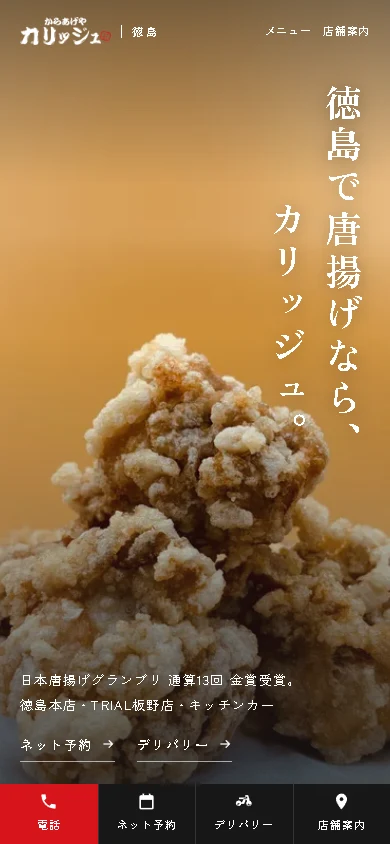
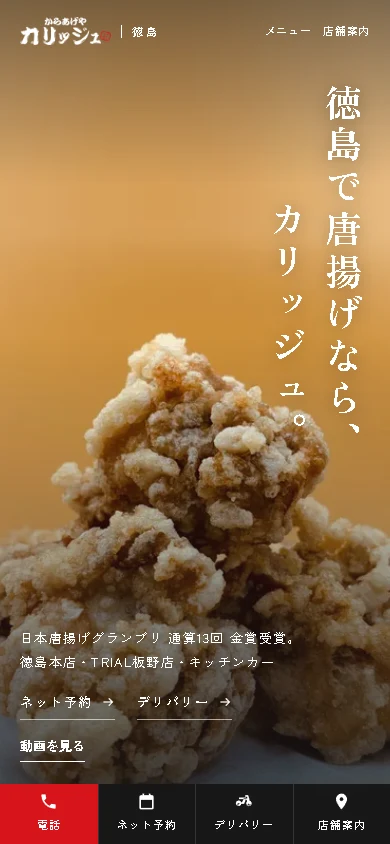
Show intro video across desktop and allow reliable replay

diff --git a/hero-review-20261009/index.html b/hero-review-20261009/index.html
@@ -1,1 +1,1 @@
-<!doctype html><html lang="ja"><head><meta charset="utf-8"><meta name="viewport" content="width=device-width,initial-scale=1"><meta name="robots" content="noindex,nofollow"><title>カリッジュ PCトップ写真の確認案</title><style>*{box-sizing:border-box}body{margin:0;background:#f6f5f2;color:#241a0e;font-family:system-ui,sans-serif;line-height:1.8}main{max-width:1060px;margin:auto;padding:28px 18px 60px}h1{font-size:24px;line-height:1.5;margin:12px 0}h2{font-size:17px;margin:30px 0 10px}p{font-size:14px;margin:10px 0}img{display:block;width:100%;height:auto}figure{margin:0}a{color:inherit}.button{display:inline-block;background:#241a0e;color:white;padding:10px 18px;text-decoration:none;margin:12px 0}.label{font-size:12px;color:#665b4a;border-bottom:1px solid #ccc;padding-bottom:12px}.phone{max-width:390px;margin:0 auto}.note{color:#665b4a;font-size:12px}</style></head><body><main><p class="label">2026年10月9日 作成 ／ 確認案・本番未反映</p><h1>唐揚げを、画面いっぱいに。</h1><p>PCで動画が終わった後の写真を差し替え、縦書きのコピーとロゴを濃い墨色にしました。</p><h2>低いノートPCの画面（1280 × 600）</h2><figure><a href="hero-1280x600.webp"><img src="hero-1280x600.webp" width="1280" height="600" alt="横長の唐揚げ写真を全面に広げ、左に墨色の縦書きコピーを配置したノートPC表示案"></a></figure><p class="note">画像をタップすると大きく開けます。</p><h2>高さのあるPCの画面（1440 × 900）</h2><figure><a href="hero-1440x900.webp"><img src="hero-1440x900.webp" width="1440" height="900" alt="高さのあるPC画面での写真と縦書きコピーの配置" loading="lazy"></a></figure><h2>スマホの表示</h2><p>スマホの写真は従来のまま。低い画面では必要に応じて縦にスクロールできます。</p><figure class="phone"><img src="hero-390x844.webp" width="390" height="844" alt="従来の写真と白い縦書きコピーを使ったスマホ表示" loading="lazy"></figure><a class="button" href="site/">実際に動く確認サイトを開く</a><p>PCの初回動画も残しています。写真の場面は動画の後に表示されます。</p><p class="note">幅320〜2560px、低いPC・スマホ縦横・拡大表示相当の寸法を確認。ChromeとSafari系でトップ・メニュー・店舗案内の60通りを点検済み。現時点では本番サイトの表示は変更していません。</p></main></body></html>
+<!doctype html><html lang="ja"><head><meta charset="utf-8"><meta name="viewport" content="width=device-width,initial-scale=1"><meta name="robots" content="noindex,nofollow"><title>カリッジュ PCトップ写真の確認案</title><style>*{box-sizing:border-box}body{margin:0;background:#f6f5f2;color:#241a0e;font-family:system-ui,sans-serif;line-height:1.8}main{max-width:1060px;margin:auto;padding:28px 18px 60px}h1{font-size:24px;line-height:1.5;margin:12px 0}h2{font-size:17px;margin:30px 0 10px}p{font-size:14px;margin:10px 0}img{display:block;width:100%;height:auto}figure{margin:0}a{color:inherit}.button{display:inline-block;background:#241a0e;color:white;padding:10px 18px;text-decoration:none;margin:12px 0}.label{font-size:12px;color:#665b4a;border-bottom:1px solid #ccc;padding-bottom:12px}.phone{max-width:390px;margin:0 auto}.note{color:#665b4a;font-size:12px}</style></head><body><main><p class="label">2026年10月9日 作成 ／ 確認案・本番未反映</p><h1>唐揚げを、画面いっぱいに。</h1><p>PCで動画が終わった後の写真を差し替え、縦書きのコピーとロゴを濃い墨色にしました。</p><h2>最初の動画もPC画面全体で再生</h2><figure><img src="intro-full-pc.webp" width="1280" height="600" alt="揚げている唐揚げをPC全面で見せる動画の一場面"></figure><h2>低いノートPCの画面（1280 × 600）</h2><figure><a href="hero-1280x600.webp"><img src="hero-1280x600.webp" width="1280" height="600" alt="横長の唐揚げ写真を全面に広げ、左に墨色の縦書きコピーを配置したノートPC表示案"></a></figure><p class="note">画像をタップすると大きく開けます。</p><h2>高さのあるPCの画面（1440 × 900）</h2><figure><a href="hero-1440x900.webp"><img src="hero-1440x900.webp" width="1440" height="900" alt="高さのあるPC画面での写真と縦書きコピーの配置" loading="lazy"></a></figure><h2>スマホの表示</h2><p>スマホの写真は従来のまま。低い画面では必要に応じて縦にスクロールできます。</p><figure class="phone"><img src="hero-390x844.webp" width="390" height="844" alt="従来の写真と白い縦書きコピーを使ったスマホ表示" loading="lazy"></figure><a class="button" href="site/">実際に動く確認サイトを開く</a><p>PCの動画は画面全体で表示し、ページを開き直した場合も再生します。動きを減らす設定や自動再生の制限で写真が出た場合は「動画を見る」から手動再生できます。</p><p class="note">幅320〜2560px、低いPC・スマホ縦横・拡大表示相当の寸法を確認。ChromeとSafari系でトップ・メニュー・店舗案内の60通りを点検済み。現時点では本番サイトの表示は変更していません。</p></main></body></html>

diff --git a/hero-review-20261009/site/index.html b/hero-review-20261009/site/index.html
@@ -20,7 +20,7 @@
 <link rel="preconnect" href="https://fonts.googleapis.com">
 <link rel="preconnect" href="https://fonts.gstatic.com" crossorigin>
 <link rel="stylesheet" href="https://fonts.googleapis.com/css2?family=Cormorant+Garamond:ital,wght@0,500;0,600;0,700;1,500&amp;family=Zen+Kaku+Gothic+New:wght@400;500;700&amp;family=Zen+Old+Mincho:wght@500;700;900&amp;display=swap">
-<link rel="stylesheet" href="assets/css/site.css?v=87977d95">
+<link rel="stylesheet" href="assets/css/site.css?v=f902f454">
 <script>document.documentElement.classList.add('js');if(/[?&]motion=force/.test(location.search)||(!matchMedia('(prefers-reduced-motion: reduce)').matches&&!/[?&]motion=reduce/.test(location.search)))document.documentElement.classList.add('motion');</script>
 <script type="application/ld+json">{"@context":"https://schema.org","@graph":[{"@type":"Restaurant","@id":"https://kariju-tokushima.com/shops.html#honten","name":"からあげやカリッジュ　徳島本店","url":"https://kariju-tokushima.com/shops.html#honten","image":"https://kariju-tokushima.com/assets/img/store-honten-20261002-full.jpg","telephone":"+81-80-4037-3163","address":{"@type":"PostalAddress","postalCode":"770-0005","addressRegion":"徳島県","addressLocality":"徳島市","streetAddress":"南矢三町3丁目4-39 久米ビル","addressCountry":"JP"},"openingHoursSpecification":[{"@type":"OpeningHoursSpecification","dayOfWeek":["Monday","Tuesday","Wednesday","Thursday","Friday"],"opens":"11:00:00","closes":"14:00:00"},{"@type":"OpeningHoursSpecification","dayOfWeek":["Monday","Tuesday","Wednesday","Thursday","Friday"],"opens":"16:00:00","closes":"20:00:00"},{"@type":"OpeningHoursSpecification","dayOfWeek":["Saturday","Sunday"],"opens":"11:00:00","closes":"20:00:00"}],"servesCuisine":"唐揚げ","priceRange":"¥500〜¥3,000","menu":"https://kariju-tokushima.com/menu.html","hasMap":"https://www.google.com/maps/search/?api=1&query=%E3%81%8B%E3%82%89%E3%81%82%E3%81%92%E3%82%84%E3%82%AB%E3%83%AA%E3%83%83%E3%82%B8%E3%83%A5%20%E5%BE%B3%E5%B3%B6%E6%9C%AC%E5%BA%97%20%E5%BE%B3%E5%B3%B6%E7%9C%8C%E5%BE%B3%E5%B3%B6%E5%B8%82%E5%8D%97%E7%9F%A2%E4%B8%89%E7%94%BA3%E4%B8%81%E7%9B%AE4-39%20%E4%B9%85%E7%B1%B3%E3%83%93%E3%83%AB","paymentAccepted":"現金, PayPay","acceptsReservations":true},{"@type":"Restaurant","@id":"https://kariju-tokushima.com/shops.html#itano","name":"からあげやカリッジュ　TRIAL板野店","url":"https://kariju-tokushima.com/shops.html#itano","image":"https://kariju-tokushima.com/assets/img/store-itano-20261002-full.jpg","telephone":"+81-80-5132-7509","address":{"@type":"PostalAddress","postalCode":"779-0102","addressRegion":"徳島県","addressLocality":"板野郡板野町","streetAddress":"川端島中須11-2","addressCountry":"JP"},"openingHoursSpecification":[{"@type":"OpeningHoursSpecification","dayOfWeek":["Monday","Tuesday","Wednesday","Thursday","Friday"],"opens":"11:00:00","closes":"14:00:00"},{"@type":"OpeningHoursSpecification","dayOfWeek":["Monday","Tuesday","Wednesday","Thursday","Friday"],"opens":"15:00:00","closes":"20:00:00"},{"@type":"OpeningHoursSpecification","dayOfWeek":["Saturday","Sunday"],"opens":"11:00:00","closes":"20:00:00"}],"servesCuisine":"唐揚げ","priceRange":"¥500〜¥3,000","menu":"https://kariju-tokushima.com/menu.html","hasMap":"https://www.google.com/maps/search/?api=1&query=%E3%81%8B%E3%82%89%E3%81%82%E3%81%92%E3%82%84%E3%82%AB%E3%83%AA%E3%83%83%E3%82%B8%E3%83%A5%20TRIAL%E6%9D%BF%E9%87%8E%E5%BA%97%20%E5%BE%B3%E5%B3%B6%E7%9C%8C%E6%9D%BF%E9%87%8E%E9%83%A1%E6%9D%BF%E9%87%8E%E7%94%BA%E5%B7%9D%E7%AB%AF%E5%B3%B6%E4%B8%AD%E9%A0%8811-2","paymentAccepted":"現金, PayPay","acceptsReservations":true}]}</script>
 </head>
@@ -48,6 +48,7 @@
     <div class="hero__foot">
       <p class="hero__lead">日本唐揚げグランプリ 通算13回 金賞受賞。<br>徳島本店・TRIAL板野店・キッチンカー</p>
       <p class="hero__links"><a href="#sheet-reserve" data-sheet="sheet-reserve">ネット予約<svg viewBox="0 0 24 24" aria-hidden="true"><path d="M4 11h13.2l-4.6-4.6L14 5l7 7-7 7-1.4-1.4 4.6-4.6H4z" fill="currentColor"/></svg></a><a href="#sheet-delivery" data-sheet="sheet-delivery">デリバリー<svg viewBox="0 0 24 24" aria-hidden="true"><path d="M4 11h13.2l-4.6-4.6L14 5l7 7-7 7-1.4-1.4 4.6-4.6H4z" fill="currentColor"/></svg></a></p>
+      <button class="hero__replay" type="button" data-intro-play>動画を見る</button>
     </div>
   </div>
   <p class="hero__scroll" aria-hidden="true">SCROLL</p>
@@ -312,6 +313,6 @@
     <a class="sheet__close" href="#_" data-close>閉じる</a>
   </div>
 </div>
-<script src="assets/js/site.js?v=9bcefda6" defer></script>
+<script src="assets/js/site.js?v=03d0c375" defer></script>
 </body>
 </html>

diff --git a/hero-review-20261009/site/assets/js/site.js b/hero-review-20261009/site/assets/js/site.js
@@ -8,42 +8,61 @@
 (() => {
   const root = document.documentElement;
   const motion = root.classList.contains('motion');
-  const force = /[?&]motion=force/.test(location.search);
 
   // ---------- 1) 最初の画面 ----------
   const hero = document.querySelector('.hero');
   if (hero) {
     const video = hero.querySelector('.hero__video');
+    const replay = hero.querySelector('[data-intro-play]');
     let done = false;
+    let timers = [];
+    const clearTimers = () => { timers.forEach(clearTimeout); timers = []; };
     const stamp = () => {
       if (done) return;
       done = true;
+      clearTimers();
+      hero.classList.remove('intro-playing');
       hero.classList.add('is-lifted');
-      setTimeout(() => hero.classList.add('is-stamped'), 380);
-      try { sessionStorage.setItem('kariju-intro', '1'); } catch (e) { /* 使えなくても困らない */ }
+      if (video) video.pause();
+      timers.push(setTimeout(() => hero.classList.add('is-stamped'), motion ? 380 : 0));
     };
-    let seen = false;
-    try { seen = sessionStorage.getItem('kariju-intro') === '1'; } catch (e) { /* 何もしない */ }
-    if (!motion || !video || (seen && !force)) {
-      hero.classList.add('is-lifted', 'is-stamped');
-      if (video) video.removeAttribute('src');
-    } else {
-      // 広い画面は元の大きさ（720×1280）の版、スマホは軽い版
-      video.src = matchMedia('(min-width: 900px)').matches ? video.dataset.srcHd : video.dataset.src;
-      // 網が手前まで上がりきる少し前（残り0.35秒）で切り替える
+    const playIntro = () => {
+      if (!video) return;
+      clearTimers();
+      done = false;
+      hero.classList.remove('is-lifted', 'is-stamped');
+      hero.classList.add('intro-playing');
+      const src = matchMedia('(min-width: 900px)').matches ? video.dataset.srcHd : video.dataset.src;
+      if (video.error || video.getAttribute('src') !== src) video.src = src;
+      else video.currentTime = 0;
+      video.muted = true;
+      let started = false;
+      const onPlaying = () => { started = true; };
+      video.addEventListener('playing', onPlaying, { once: true });
+      const p = video.play();
+      if (p && p.catch) p.catch(stamp);
+      timers.push(setTimeout(() => { video.removeEventListener('playing', onPlaying); if (!started) stamp(); }, 4000));
+      timers.push(setTimeout(stamp, 10000));
+    };
+    if (video) {
       video.addEventListener('timeupdate', () => {
+        // 縦素材をPCで横いっぱいに見せる際、網が上がる動きに合わせて唐揚げを追う。
+        if (video.duration && matchMedia('(min-width: 900px)').matches) {
+          video.style.objectPosition = `50% ${32 - 22 * Math.min(1, video.currentTime / video.duration)}%`;
+        } else video.style.objectPosition = '';
         if (video.duration && video.currentTime >= video.duration - 0.35) stamp();
       });
       video.addEventListener('ended', stamp);
       video.addEventListener('error', stamp);
-      hero.addEventListener('click', (e) => { if (!e.target.closest('a')) stamp(); });
-      const p = video.play();
-      if (p && p.catch) p.catch(stamp);
-      // 回線が遅いときは待たせすぎない：4秒たっても動き出さなければ写真を出す（待つ間は最初の1コマを見せている）
-      let started = false;
-      video.addEventListener('playing', () => { started = true; }, { once: true });
-      setTimeout(() => { if (!started) stamp(); }, 4000);
-      setTimeout(stamp, 10000);
+    }
+    hero.addEventListener('click', (e) => { if (!e.target.closest('a, button')) stamp(); });
+    if (replay) replay.addEventListener('click', playIntro);
+    if (!motion || !video) {
+      hero.classList.add('is-lifted', 'is-stamped');
+      done = true;
+    } else {
+      // 見た回数にかかわらずページを開いたら再生。端末が動きを減らす設定なら手動再生にする。
+      playIntro();
     }
   }
 

diff --git a/hero-review-20261009/site/shops.html b/hero-review-20261009/site/shops.html
@@ -20,7 +20,7 @@
 <link rel="preconnect" href="https://fonts.googleapis.com">
 <link rel="preconnect" href="https://fonts.gstatic.com" crossorigin>
 <link rel="stylesheet" href="https://fonts.googleapis.com/css2?family=Cormorant+Garamond:ital,wght@0,500;0,600;0,700;1,500&amp;family=Zen+Kaku+Gothic+New:wght@400;500;700&amp;family=Zen+Old+Mincho:wght@500;700;900&amp;display=swap">
-<link rel="stylesheet" href="assets/css/site.css?v=87977d95">
+<link rel="stylesheet" href="assets/css/site.css?v=f902f454">
 <script>document.documentElement.classList.add('js');if(/[?&]motion=force/.test(location.search)||(!matchMedia('(prefers-reduced-motion: reduce)').matches&&!/[?&]motion=reduce/.test(location.search)))document.documentElement.classList.add('motion');</script>
 <script type="application/ld+json">{"@context":"https://schema.org","@graph":[{"@type":"Restaurant","@id":"https://kariju-tokushima.com/shops.html#honten","name":"からあげやカリッジュ　徳島本店","url":"https://kariju-tokushima.com/shops.html#honten","image":"https://kariju-tokushima.com/assets/img/store-honten-20261002-full.jpg","telephone":"+81-80-4037-3163","address":{"@type":"PostalAddress","postalCode":"770-0005","addressRegion":"徳島県","addressLocality":"徳島市","streetAddress":"南矢三町3丁目4-39 久米ビル","addressCountry":"JP"},"openingHoursSpecification":[{"@type":"OpeningHoursSpecification","dayOfWeek":["Monday","Tuesday","Wednesday","Thursday","Friday"],"opens":"11:00:00","closes":"14:00:00"},{"@type":"OpeningHoursSpecification","dayOfWeek":["Monday","Tuesday","Wednesday","Thursday","Friday"],"opens":"16:00:00","closes":"20:00:00"},{"@type":"OpeningHoursSpecification","dayOfWeek":["Saturday","Sunday"],"opens":"11:00:00","closes":"20:00:00"}],"servesCuisine":"唐揚げ","priceRange":"¥500〜¥3,000","menu":"https://kariju-tokushima.com/menu.html","hasMap":"https://www.google.com/maps/search/?api=1&query=%E3%81%8B%E3%82%89%E3%81%82%E3%81%92%E3%82%84%E3%82%AB%E3%83%AA%E3%83%83%E3%82%B8%E3%83%A5%20%E5%BE%B3%E5%B3%B6%E6%9C%AC%E5%BA%97%20%E5%BE%B3%E5%B3%B6%E7%9C%8C%E5%BE%B3%E5%B3%B6%E5%B8%82%E5%8D%97%E7%9F%A2%E4%B8%89%E7%94%BA3%E4%B8%81%E7%9B%AE4-39%20%E4%B9%85%E7%B1%B3%E3%83%93%E3%83%AB","paymentAccepted":"現金, PayPay","acceptsReservations":true},{"@type":"Restaurant","@id":"https://kariju-tokushima.com/shops.html#itano","name":"からあげやカリッジュ　TRIAL板野店","url":"https://kariju-tokushima.com/shops.html#itano","image":"https://kariju-tokushima.com/assets/img/store-itano-20261002-full.jpg","telephone":"+81-80-5132-7509","address":{"@type":"PostalAddress","postalCode":"779-0102","addressRegion":"徳島県","addressLocality":"板野郡板野町","streetAddress":"川端島中須11-2","addressCountry":"JP"},"openingHoursSpecification":[{"@type":"OpeningHoursSpecification","dayOfWeek":["Monday","Tuesday","Wednesday","Thursday","Friday"],"opens":"11:00:00","closes":"14:00:00"},{"@type":"OpeningHoursSpecification","dayOfWeek":["Monday","Tuesday","Wednesday","Thursday","Friday"],"opens":"15:00:00","closes":"20:00:00"},{"@type":"OpeningHoursSpecification","dayOfWeek":["Saturday","Sunday"],"opens":"11:00:00","closes":"20:00:00"}],"servesCuisine":"唐揚げ","priceRange":"¥500〜¥3,000","menu":"https://kariju-tokushima.com/menu.html","hasMap":"https://www.google.com/maps/search/?api=1&query=%E3%81%8B%E3%82%89%E3%81%82%E3%81%92%E3%82%84%E3%82%AB%E3%83%AA%E3%83%83%E3%82%B8%E3%83%A5%20TRIAL%E6%9D%BF%E9%87%8E%E5%BA%97%20%E5%BE%B3%E5%B3%B6%E7%9C%8C%E6%9D%BF%E9%87%8E%E9%83%A1%E6%9D%BF%E9%87%8E%E7%94%BA%E5%B7%9D%E7%AB%AF%E5%B3%B6%E4%B8%AD%E9%A0%8811-2","paymentAccepted":"現金, PayPay","acceptsReservations":true}]}</script>
 </head>
@@ -157,6 +157,6 @@
     <a class="sheet__close" href="#_" data-close>閉じる</a>
   </div>
 </div>
-<script src="assets/js/site.js?v=9bcefda6" defer></script>
+<script src="assets/js/site.js?v=03d0c375" defer></script>
 </body>
 </html>

diff --git a/hero-review-20261009/site/assets/css/site.css b/hero-review-20261009/site/assets/css/site.css
@@ -81,7 +81,7 @@ ul { padding: 0; list-style: none; }
               linear-gradient(to bottom, rgba(22, 22, 22, .5) 0%, rgba(22, 22, 22, 0) 22%);
 }
 .hero__copy { position: relative; z-index: 2; pointer-events: none; display: flex; flex-direction: column; align-items: flex-end; min-height: inherit; padding: 84px var(--gutter) calc(var(--bar-h) + env(safe-area-inset-bottom) + 22px); }
-.hero__copy a { pointer-events: auto; }
+.hero__copy a, .hero__copy button { pointer-events: auto; }
 .catch {
   position: relative; flex: none;
   writing-mode: vertical-rl; font-family: var(--mincho); font-weight: 700; letter-spacing: .14em; line-height: 1.5;
@@ -94,6 +94,11 @@ ul { padding: 0; list-style: none; }
 .hero__links { display: flex; flex-wrap: wrap; gap: 12px 22px; margin-top: 14px; }
 .hero__links a { display: inline-flex; align-items: center; gap: 8px; font-size: 13px; font-weight: 500; letter-spacing: .12em; text-decoration: none; padding-bottom: 4px; border-bottom: 1px solid rgba(255, 255, 255, .6); }
 .hero__links svg { width: 14px; height: 14px; }
+.hero__replay { display: none; align-items: center; margin-top: 10px; padding: 6px 0; border: 0; border-bottom: 1px solid currentColor; background: transparent; color: inherit; font: 700 13px/1.5 var(--gothic); cursor: pointer; }
+.js .hero.is-stamped .hero__replay { display: inline-flex; }
+.hero.intro-playing .hero__video { display: block; }
+.hero.intro-playing .hero__photo { opacity: 0; }
+.hero.intro-playing .hero__copy { visibility: hidden; }
 .hero__scroll { display: none; }
 
 /* 横向きや拡大時は高さを固定せず、本文の分だけ自然に伸ばす。 */
@@ -337,7 +342,7 @@ body[data-store="itano"] [data-only="honten"] { display: none !important; }
   .hd__nav a { font-size: 14px; }
   .hero { min-height: max(600px, 100svh); }
   .hero__media { inset: 0; width: 100%; }
-  .hero__video { inset: 0 0 0 auto; width: min(44%, calc(100svh * 9 / 16)); }
+  .hero__video { inset: 0; width: 100%; object-fit: cover; object-position: 50% 32%; }
   .hero__photo { background: #f3a332; }
   .hero__img { object-position: 65% 50%; }
   .hero__copy { width: 40%; align-items: center; padding: 104px var(--gutter) 100px; }

diff --git a/hero-review-20261009/site/menu.html b/hero-review-20261009/site/menu.html
@@ -20,7 +20,7 @@
 <link rel="preconnect" href="https://fonts.googleapis.com">
 <link rel="preconnect" href="https://fonts.gstatic.com" crossorigin>
 <link rel="stylesheet" href="https://fonts.googleapis.com/css2?family=Cormorant+Garamond:ital,wght@0,500;0,600;0,700;1,500&amp;family=Zen+Kaku+Gothic+New:wght@400;500;700&amp;family=Zen+Old+Mincho:wght@500;700;900&amp;display=swap">
-<link rel="stylesheet" href="assets/css/site.css?v=87977d95">
+<link rel="stylesheet" href="assets/css/site.css?v=f902f454">
 <script>document.documentElement.classList.add('js');if(/[?&]motion=force/.test(location.search)||(!matchMedia('(prefers-reduced-motion: reduce)').matches&&!/[?&]motion=reduce/.test(location.search)))document.documentElement.classList.add('motion');</script>
 
 </head>
@@ -153,6 +153,6 @@
     <a class="sheet__close" href="#_" data-close>閉じる</a>
   </div>
 </div>
-<script src="assets/js/site.js?v=9bcefda6" defer></script>
+<script src="assets/js/site.js?v=03d0c375" defer></script>
 </body>
 </html>
